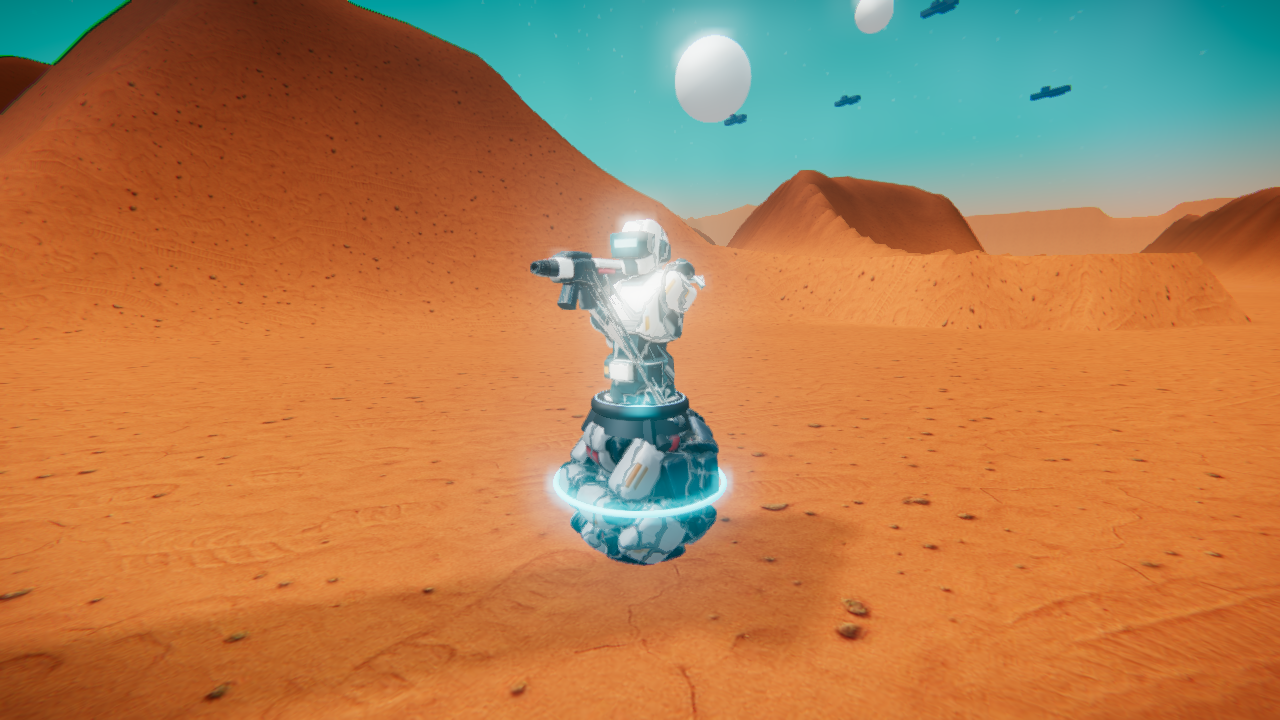
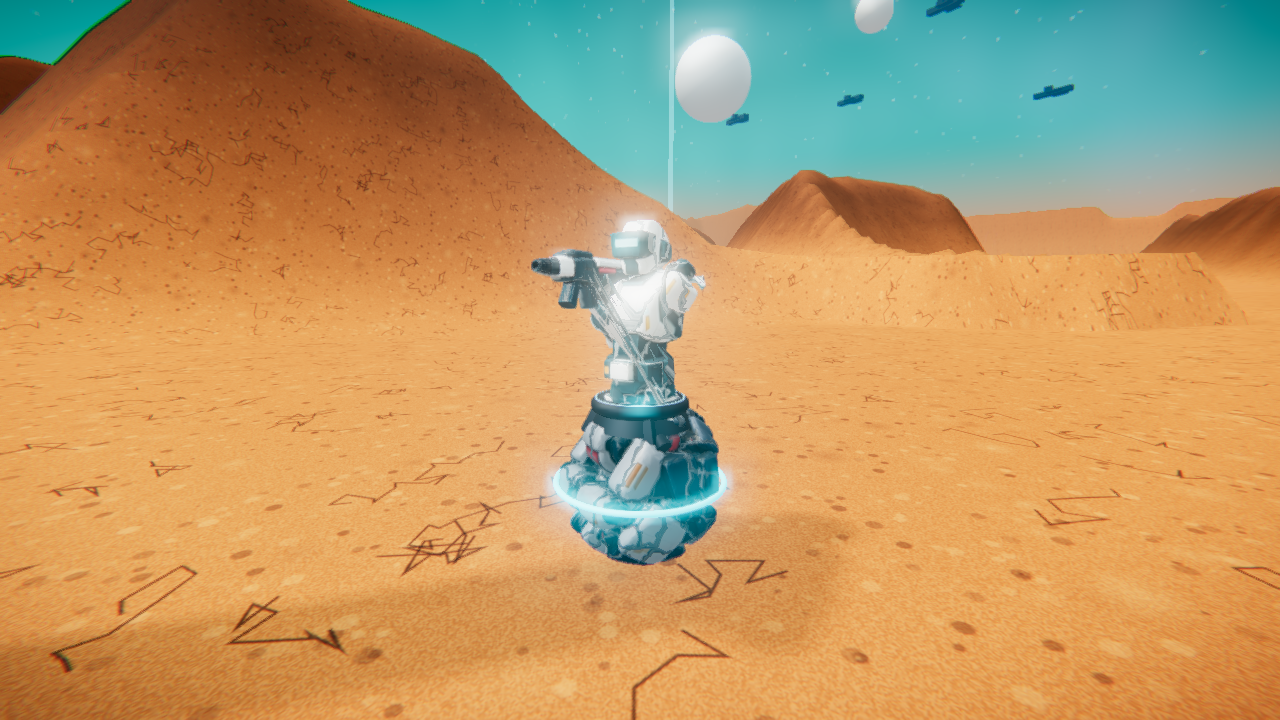
Capture fixed timestep; aurora rebalanced; stronger strata and floor veins; ball-mode crouch pose; foregrip closer for elbow read

diff --git a/src/world/terrain.js b/src/world/terrain.js
@@ -183,16 +183,16 @@ export class Terrain {
       c.lerp(rock, rockT);
       // macro variation (large patches) and darker crevices on steep faces so rock reads as strata, not clay
       const macro = fbm2(x * 0.012 + 40, z * 0.012 + 17, 2) - 0.5; c.multiplyScalar(1 + macro * 0.22);
-      const nrmY = this.getNormal(x, z).y; const steep = 1 - THREE.MathUtils.smoothstep(nrmY, 0.55, 0.9); c.multiplyScalar(1 - steep * 0.4 * (0.5 + rockT * 0.5));
+      const nrmY = this.getNormal(x, z).y; const steep = 1 - THREE.MathUtils.smoothstep(nrmY, 0.55, 0.9); c.multiplyScalar(1 - steep * 0.5 * (0.5 + rockT * 0.5));
       // sedimentary strata: horizontal bands on the rock faces
-      const strata = Math.sin(h * 1.9 + fbm2(x * 0.03, z * 0.03, 2) * 3.0) * 0.5 + 0.5; c.multiplyScalar(1 - rockT * steep * 0.22 * strata + rockT * 0.06 * (strata - 0.5));
+      const strata = Math.sin(h * 1.9 + fbm2(x * 0.03, z * 0.03, 2) * 3.0) * 0.5 + 0.5; c.multiplyScalar(1 - rockT * steep * 0.35 * strata + rockT * 0.1 * (strata - 0.5));
       // slight brighter dust on top ridges
       if (h > 20) c.lerp(new THREE.Color(P.ridge[0], P.ridge[1], P.ridge[2]), smoothstep(20, 32, h) * 0.5);
       colors[k * 3] = c.r; colors[k * 3 + 1] = c.g; colors[k * 3 + 2] = c.b;
       // neon veins only in floor cracks and along rock bases, patchy
       const patch = fbm2(x * 0.02 + 11, z * 0.02 + 5, 2);
       // sparse glowing patches: mostly along canyon floors near rock bases
-      vein[k] = (patch > 0.66 ? (patch - 0.66) * 4 : 0) * (1 - rockT * 0.7) * (fd < 6 && fd > -14 ? 1 : 0.08) * P.veinScale;
+      vein[k] = (patch > 0.62 ? (patch - 0.62) * 4 : 0) * (1 - rockT * 0.7) * (fd < 6 && fd > -14 ? 1 : (fd <= -14 ? 0.45 : 0.08)) * P.veinScale;
     }
     geo.setAttribute('color', new THREE.BufferAttribute(colors, 3));
     geo.setAttribute('aVein', new THREE.BufferAttribute(vein, 1));

diff --git a/src/models/glbSoldier.js b/src/models/glbSoldier.js
@@ -94,7 +94,7 @@ function normaliseWeapon(geo, opts) {
   const pos2 = geo.attributes.position; let gR = null, gL = null;
   for (let i = 0; i < pos2.count; i++) { const z = pos2.getZ(i), y = pos2.getY(i), x = pos2.getX(i); if (Math.abs(x) > 0.05) continue; if (z > -0.2 && z < 0.02 && (!gR || y < gR.y)) gR = new THREE.Vector3(x, y, z); if (z > 0.24 && z < 0.5 && (!gL || y < gL.y)) gL = new THREE.Vector3(x, y, z); }
   const gripR = new THREE.Vector3(0.02, gR ? THREE.MathUtils.clamp(gR.y + 0.08, -0.13, -0.01) : -0.02, gR ? THREE.MathUtils.clamp(gR.z + 0.02, -0.08, 0.06) : 0.04);
-  const gripL = new THREE.Vector3(-0.02, gL ? THREE.MathUtils.clamp(gL.y + 0.05, -0.06, 0.05) : 0.0, gL ? gL.z : 0.34);
+  const gripL = new THREE.Vector3(-0.02, gL ? THREE.MathUtils.clamp(gL.y + 0.05, -0.06, 0.05) : 0.0, gL ? Math.min(gL.z, 0.3) : 0.3);
   return { geometry: geo, length: b3.max.z - b3.min.z, muzzle: new THREE.Vector3(0, 0.055, geo.boundingBox.max.z - 0.01), gripR, gripL };
 }
 

diff --git a/src/entities/animator.js b/src/entities/animator.js
@@ -155,6 +155,7 @@ export class CharacterAnimator {
       T.thighL = [lerp(T.thighL[0], 0.55, k), T.thighL[1], T.thighL[2]]; T.thighR = [lerp(T.thighR[0], 0.45, k), T.thighR[1], T.thighR[2]];
       T.shinL = [lerp(T.shinL[0], 1.1, k), 0, 0]; T.shinR = [lerp(T.shinR[0], 1.2, k), 0, 0]; T.footL = [-0.4 * k, 0, 0]; T.footR = [-0.4 * k, 0, 0];
       T.spine = [lerp(T.spine[0], 0.22, k), T.spine[1], T.spine[2]]; rootTarget += 0.05 * k; }
+    if (this.model?.ballRadius && s.crouch > 0.5 && !s.dead) { T.spine = [T.spine[0] + 0.28, T.spine[1], T.spine[2]]; T.chest = [T.chest[0] + 0.12, T.chest[1], T.chest[2]]; T.head = [T.head[0] - 0.2, T.head[1], T.head[2]]; }
     if (s.dead) { CharacterAnimator.mix(T, POSE.dead, 1, T); rootTarget = -0.85; blend = 6; }
     if (s.reload != null) {
       // left hand goes to magazine and back

diff --git a/src/game.js b/src/game.js
@@ -474,7 +474,7 @@ export class Game {
   }
   tick() {
     this._lastTick = performance.now();
-    const dt = Math.min(0.05, this.clock.getDelta()) * (this.dev?.state.timeScale ?? 1);
+    const dt = (this._fixedDt != null ? this._fixedDt : Math.min(0.05, this.clock.getDelta())) * (this.dev?.state.timeScale ?? 1);
     if (this.fpsEl) { this._fpsAcc += dt; this._fpsN++; if (this._fpsAcc > 0.5) { this.fpsEl.textContent = `${Math.round(this._fpsN / this._fpsAcc)} FPS`; this._fpsAcc = 0; this._fpsN = 0; } }
     const s = this.session;
     if (s && this.world) {

diff --git a/src/render/sky.js b/src/render/sky.js
@@ -48,7 +48,7 @@ export function createSky(opts = {}) {
             a += smoothstep(w, 0.0, abs(h - y0)) * (0.35 + 0.65 * noise(vec2(d.x * 8.0 + fi * 10.0, uTime * 0.2))) * (0.6 + 0.4 * noise(vec2(d.x * 20.0, d.z * 20.0 + fi)));
           }
           vec3 ac = mix(vec3(0.0, 0.9, 0.7), vec3(0.55, 0.15, 1.0), sin(d.x * 2.0 + uTime * 0.1) * 0.5 + 0.5);
-          col += ac * a * 0.085 * uAurora;
+          col += ac * a * 0.12 * uAurora;
         }
         gl_FragColor = vec4(col, 1.0);
       }`,
